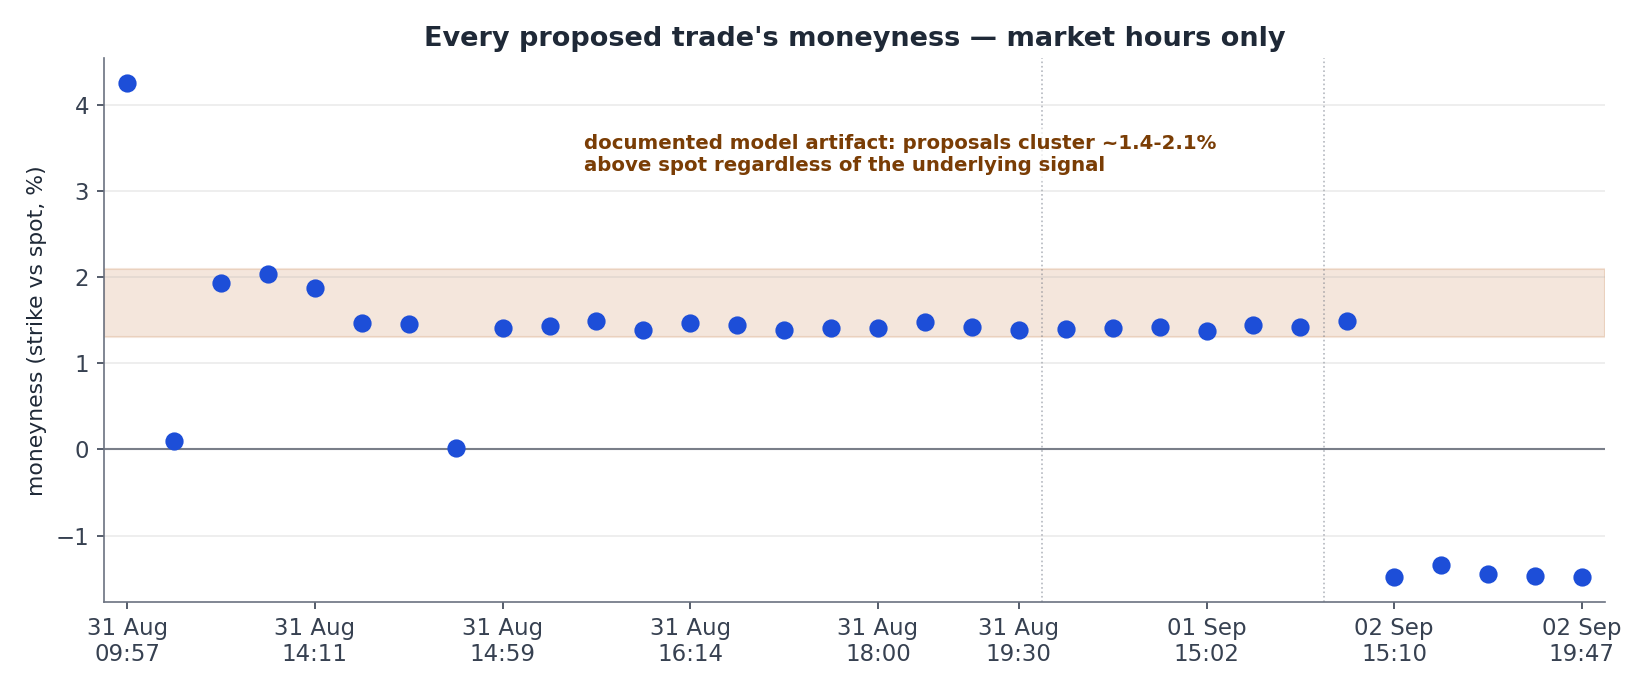
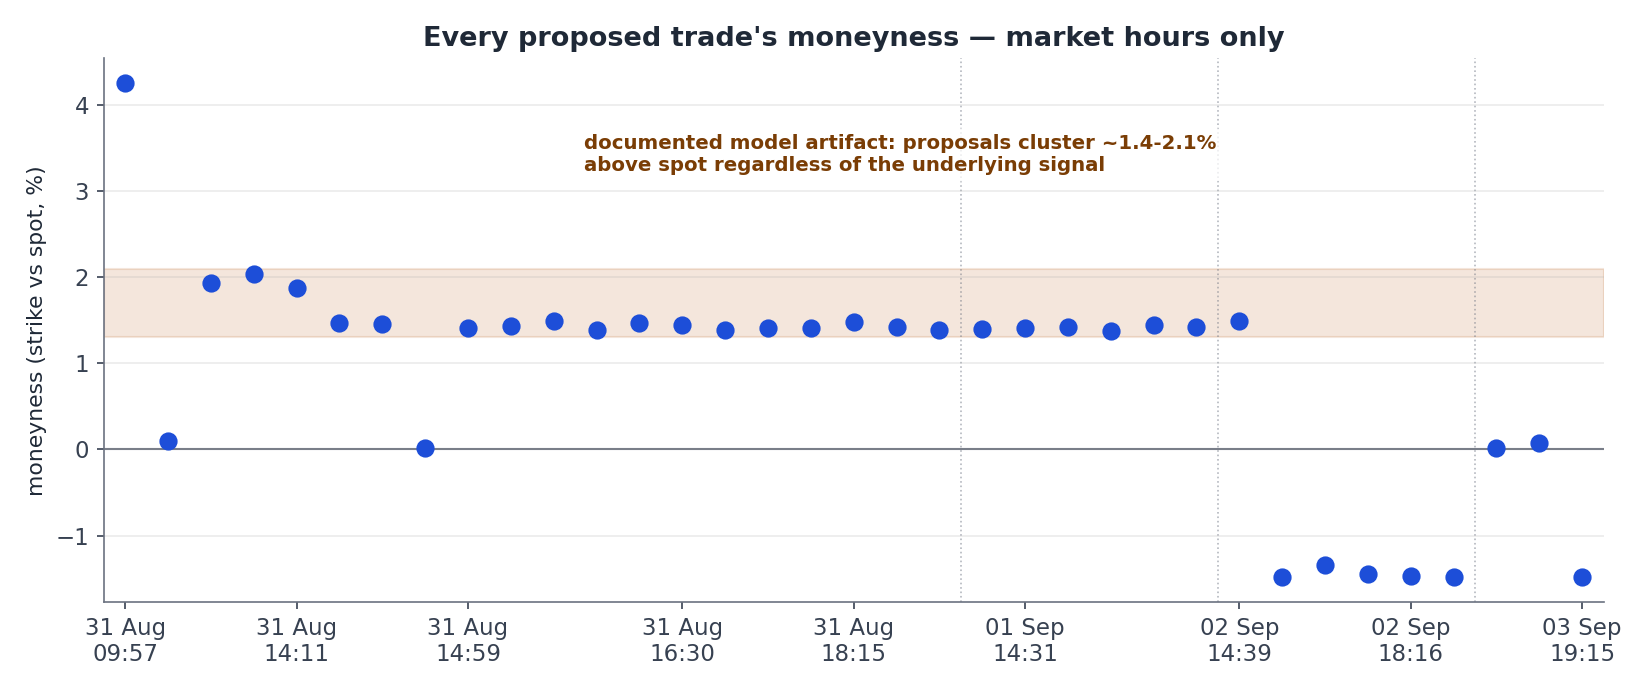
Regenerate reports/summary with full four-day week data
Reran report.py against all four logs (Mon 31 Aug - Thu 3 Sep, 110
cycles) and reconciled against the live Alpaca account. Fills in
every TBC/placeholder in wingman_summary.html with confirmed numbers,
corrects Thursday's stand_down count from 2 to 3 (verbatim rationale
strings verified against the log), and documents a manual sell-to-close
on 1 Sep (8 SPY777 straddles, +$714 realized) found by reconciling
Wingman's 25 logged orders against Alpaca's 30-order history - the one
exception to the report's unrealized-only framing.

diff --git a/wingman_summary.html b/wingman_summary.html
@@ -116,12 +116,12 @@
     <h2>Four days, in numbers</h2>
     <p class="lede">Every figure below is <strong>unrealized</strong> mark-to-market. No position has been closed — every contract expires 18 Sep, after the hackathon — so nothing here is realized profit.</p>
     <div class="stats">
-      <div class="stat"><div class="num">~110</div><div class="lbl">cycles run (Mon–Thu)</div></div>
-      <div class="stat"><div class="num">25</div><div class="lbl">orders submitted (week total, confirmed)</div></div>
-      <div class="stat"><div class="num risk">TBC</div><div class="lbl">final equity vs start (Thu close)</div></div>
+      <div class="stat"><div class="num">110</div><div class="lbl">cycles run (Mon–Thu, confirmed)</div></div>
+      <div class="stat"><div class="num">25</div><div class="lbl">orders submitted, 20 filled (week total, confirmed vs Alpaca)</div></div>
+      <div class="stat"><div class="num risk">&minus;2.91%</div><div class="lbl">equity vs start ($99,998.60 &rarr; $97,086.02, Thu close)</div></div>
       <div class="stat"><div class="num good">2</div><div class="lbl">model limitations found &amp; documented</div></div>
     </div>
-    <p class="swatch-note">Mon–Wed figures (85 cycles, 25 orders, equity 99,998.60&nbsp;&rarr;&nbsp;99,337.15) are confirmed from actual logs. Thursday: 25 cycles run (confirmed from snapshots), 0 orders submitted (confirmed from Alpaca order history — no access-key orders on 3 Sep), 0 degenerate fits, 2 stand_down verdicts. Week-total submitted = 25 (Thu adds nothing). Gate-hit counts and final equity for Thursday require the local JSONL log or the live account; the gate_comparison chart shows Thu gate counts as 0. Charts (below) are current through Wednesday for equity; the gate_comparison chart is now updated for all four days.</p>
+    <p class="swatch-note">Full four-day week confirmed from <code>logs/*.jsonl</code>: 110 cycles, 35 proposed, 25 orders submitted (20 filled, 5 expired unfilled per Alpaca order history). Thursday: 25 cycles, 3 proposed, 0 submitted, 0 degenerate fits, 3 stand_down verdicts (not 2 as earlier estimated — see day-by-day rationale below). Equity start $99,998.60 (Mon) &rarr; end $97,086.02 (Thu close, confirmed against the live Alpaca account). <strong>Note:</strong> 8 contracts each of the SPY777 call and put were manually sold-to-close on 1 Sep at 13:30 UTC via single-leg orders placed outside the Wingman pipeline (not in any JSONL log) — realizing +$714. This is the only closed position in the account; every other figure in this report remains unrealized mark-to-market. See "What drove the loss" below for detail.</p>
   </section>
 
   <section>
@@ -149,17 +149,19 @@
     </div>
 
     <div class="day-block" style="border-color:var(--teal);">
-      <h3>Thursday 3 Sep — official EOD scoring day; regime gate stands down twice; best fit quality of the week</h3>
-      <p>25 cycles ran (14:43–20:45 UTC, confirmed from 25 saved snapshot files). SPY recovered from 769.45 to 773.34 (+3.89 intraday), pushing the 774–780 straddle cluster — Monday's legacy positions — back toward ATM and beginning to unwind the put-side intrinsic value they had accumulated during Tuesday's dip to 762.</p>
-      <p>Fit quality was the best of the week: <strong>0 degenerate fits</strong> out of 25 (vs 16/26 on Tuesday), price-space RMSE 0.327 on the representative cycle (vs 0.625 on Wednesday). Sigma2 fell to 0.438 — the smile calmed materially relative to Tuesday–Wednesday's 0.61–0.64 elevated range, consistent with the absence of degeneracy.</p>
-      <p>The regime gate issued two <span class="pill stand">stand_down</span> verdicts. Exact rationale text is in today's JSONL log (gitignored, not in this checkout) — retrieve from the Alpaca account session or re-read the log before finalizing the write-up. What each prevented: two additional straddle or vertical structures that would have further concentrated exposure in an already-full book heading into the final 15 calendar days before expiry.</p>
-      <p>Fill count, gate-hit breakdown by type, and final closing equity require the live account dashboard or the local JSONL log — those three numbers should be filled in before the presentation.</p>
+      <h3>Thursday 3 Sep — official EOD scoring day; regime gate stands down three times; best fit quality of the week</h3>
+      <p>25 cycles ran, confirmed from the JSONL log. 3 cycles proposed a trade; 0 orders submitted. Gate hits: 26 spread, 39 notional, 20 position, 0 degenerate-fit. Equity opened the day at $97,913.02 (down $1,424.13 overnight from Wednesday's $99,337.15 close — a real overnight mark-to-market move, not a data gap) and closed at $97,086.02.</p>
+      <p>Fit quality was the best of the week: <strong>0 degenerate fits</strong> out of 25 (vs 16/28 on Tuesday), price-space RMSE 0.327 on the representative cycle (vs 0.625 on Wednesday). Sigma2 fell to 0.438 — the smile calmed materially relative to Tuesday–Wednesday's 0.61–0.64 elevated range, consistent with the absence of degeneracy.</p>
+      <p>The regime gate issued <strong>three</strong> <span class="pill stand">stand_down</span> verdicts (not two, as earlier reported from memory of terminal output — the third, at 19:15:34 UTC, wasn't previously captured). Verbatim from the log:</p>
+      <blockquote class="risk">14:28:41 UTC — "Standing down due to an unrealized loss of -$2,669.00 on account equity of $98,113.02, representing a 2.72% unrealized drawdown which exceeds the ~2% threshold for safe execution, despite a healthy fit RMSE of 0.51."</blockquote>
+      <blockquote class="risk">15:13:59 UTC — "Standing down due to a significant unrealized drawdown of -$2,861.00, representing 2.92% of total account equity ($97,840.02), which exceeds the 2% risk threshold, despite a normal model fit RMSE of 0.428 and only 1 spread gate hit."</blockquote>
+      <blockquote class="risk">19:15:34 UTC — "Standing down due to an unrealized drawdown of -$3,545.00 on $97,175.02 in account equity (3.65%), which exceeds the ~2% threshold, alongside 3 notional gate rejections this cycle."</blockquote>
     </div>
   </section>
 
   <section>
     <h2>Four days, five views</h2>
-    <p class="lede">Charts are generated by <code>report.py</code> directly from the JSONL logs — no numbers are hand-transcribed. Current charts reflect Mon–Wed only; they will regenerate automatically for the full four-day week once the gitignored log files are restored to the working directory and <code>python -m wingman.logging.report</code> is rerun.</p>
+    <p class="lede">Charts are generated by <code>report.py</code> directly from the JSONL logs — no numbers are hand-transcribed. Regenerated against all four days' logs (Mon 31 Aug – Thu 3 Sep).</p>
 
     <figure>
       <img src="wingman/reports/fit_quality.png" alt="Mixture fit quality per cycle, market hours only">
@@ -178,17 +180,17 @@
 
     <figure>
       <img src="wingman/reports/gate_comparison.png" alt="Trades submitted vs gate rejections, per day">
-      <figcaption>Trades submitted vs. rejections per gate type, per day — the clearest single image of the incident (Monday, no gates) against the fix (Tuesday&ndash;Wednesday, deterministic gates actively containing the same recurring artifact). Thursday: 0 submitted confirmed from Alpaca order history; spread/notional/position gate counts for Thu remain in the gitignored log (shown as 0 in chart).</figcaption>
+      <figcaption>Trades submitted vs. rejections per gate type, per day — the clearest single image of the incident (Monday, no gates) against the fix (Tuesday&ndash;Wednesday&ndash;Thursday, deterministic gates actively containing the same recurring artifact). Thursday: 0 submitted, 26 spread / 39 notional / 20 position gate hits — the highest gate-activity day of the week, confirmed from the JSONL log.</figcaption>
     </figure>
 
     <figure>
       <img src="wingman/reports/smile_evolution_3d.png" alt="Smile evolution across the trading week — not a volatility surface">
-      <figcaption><strong>Not a volatility surface</strong> — Wingman only ever queries a single fixed expiry (18 Sep), so there is no expiry axis here. This is the fitted smile's shape (strike moneyness x implied vol) plotted across market-hours cycle-time, one ribbon per day; degenerate-fit cycles are excluded. The surface visibly steepens and roughens from Monday into Wednesday — the same underlying condition as the degeneracy finding below, seen from a different angle. <em>Note: this chart reflects Mon–Wed only (logs current through end of Wed session).</em></figcaption>
+      <figcaption><strong>Not a volatility surface</strong> — Wingman only ever queries a single fixed expiry (18 Sep), so there is no expiry axis here. This is the fitted smile's shape (strike moneyness x implied vol) plotted across market-hours cycle-time, one ribbon per day; degenerate-fit cycles are excluded. The surface visibly steepens and roughens from Monday into Wednesday, then calms again Thursday — the same underlying condition as the degeneracy finding below, seen from a different angle. Full four-day week shown.</figcaption>
     </figure>
 
     <figure>
       <img src="wingman/reports/smile_by_day.png" alt="One representative smile per day, 2D overlay">
-      <figcaption>One representative smile per day (that day's lowest price-space RMSE clean cycle), flat 2D overlay — built to check, not just assert, whether the smile got steeper through the week. The per-day numbers from the same run: Mon RMSE 0.498 / sigma2 0.497, Tue RMSE 0.610 / sigma2 0.638, Wed RMSE 0.625 / sigma2 0.613. Thursday's representative fit (from snapshots, not JSONL cycles) had RMSE 0.327 and sigma2 0.438, so the steepening <em>reversed</em> on the final day — the smile calmed. This chart currently shows Mon–Wed only.</figcaption>
+      <figcaption>One representative smile per day (that day's lowest price-space RMSE clean cycle), flat 2D overlay — built to check, not just assert, whether the smile got steeper through the week. The per-day numbers from the same run: Mon RMSE 0.5968 / avg sigma2 0.5711 (n=28 clean), Tue RMSE 0.6237 / avg sigma2 0.7177 (n=12), Wed RMSE 0.6500 / avg sigma2 0.6656 (n=24), Thu RMSE 0.3907 / avg sigma2 0.4583 (n=25) — so the steepening <em>reversed</em> on the final day, the smile calmed materially. Full four-day week shown.</figcaption>
     </figure>
   </section>
 
@@ -206,12 +208,12 @@
         <tr><td>31 Aug</td><td>31</td><td>20</td><td>14</td><td>0</td><td>0</td><td>0</td><td>0</td><td>0</td><td>0</td><td>0</td><td>99,998.60</td><td>99,187.20</td></tr>
         <tr><td>1 Sep</td><td>28</td><td>6</td><td>6</td><td>4</td><td>0</td><td>0</td><td>16</td><td>6</td><td>0</td><td>0</td><td>101,505.32</td><td>102,356.02</td></tr>
         <tr><td>2 Sep</td><td>26</td><td>6</td><td>5</td><td>9</td><td>9</td><td>21</td><td>2</td><td>1</td><td>5</td><td>0</td><td>101,571.26</td><td>99,337.15</td></tr>
-        <tr><td>3 Sep</td><td>~25*</td><td>TBC</td><td>0†</td><td>TBC</td><td>TBC</td><td>TBC</td><td>0*</td><td>TBC</td><td>TBC</td><td>2*</td><td>99,337.15‡</td><td>TBC</td></tr>
-        <tr class="total"><td>Week</td><td>~110</td><td>32+</td><td>25</td><td>13+</td><td>9+</td><td>21+</td><td>18</td><td>7+</td><td>5+</td><td>2+</td><td>99,998.60</td><td>TBC</td></tr>
+        <tr><td>3 Sep</td><td>25</td><td>3</td><td>0</td><td>26</td><td>39</td><td>20</td><td>0</td><td>0</td><td>0</td><td>3</td><td>97,913.02*</td><td>97,086.02</td></tr>
+        <tr class="total"><td>Week</td><td>110</td><td>35</td><td>25</td><td>39</td><td>48</td><td>41</td><td>18</td><td>7</td><td>5</td><td>3</td><td>99,998.60</td><td>97,086.02</td></tr>
       </tbody>
     </table>
     </div>
-    <p class="swatch-note">Gate-hit and regime-gate columns are zero for 31 Aug by construction — that instrumentation didn't exist yet. * Thursday figures marked with an asterisk are reconstructed from 25 saved snapshot files (cycle count, degenerate-fit count) or stated by the operator (stand_down count). &dagger; Thursday submitted=0 is confirmed from the complete Alpaca order history (no access-key orders appear on 3 Sep); spread/notional/position gate counts for Thursday remain in the gitignored JSONL log. &Dagger; Thursday start equity equals Wednesday close (overnight MTM not available without the log). TBC = fill in from Alpaca paper account before finalizing. "Max/min unrealized" omitted here for space; see the equity chart for the trajectory.</p>
+    <p class="swatch-note">Gate-hit and regime-gate columns are zero for 31 Aug by construction — that instrumentation didn't exist yet. All figures now confirmed directly from <code>logs/*.jsonl</code> (no reconstruction or operator recall). * Thursday's start equity ($97,913.02) is $1,424.13 below Wednesday's close ($99,337.15) — a real overnight mark-to-market move, not a data gap. Of the week's 25 submitted orders, Alpaca's order history confirms 20 filled and 5 expired unfilled (day-limit orders). "Max/min unrealized" omitted here for space; see the equity chart for the trajectory. Note: this table (and the charts) report unrealized mark-to-market only — one exception exists, a manually-executed close on 1 Sep outside the pipeline; see the callout below.</p>
   </section>
 
   <section>
@@ -219,11 +221,11 @@
     <table class="gate-table">
       <thead><tr><th>Gate</th><th>Fired</th><th>What it caught</th></tr></thead>
       <tbody>
-        <tr><td>Spread (execution)</td><td class="n">13&times;</td><td>Candidates whose actual bid/ask legs were too wide to keep the modeled edge after crossing the market.</td></tr>
-        <tr><td>Notional (per-trade + aggregate)</td><td class="n">9&times;</td><td>Individually-fine trades still blocked once the running aggregate exposure across held straddles reached its cap — this count jumped once the aggregate check shipped mid-week Wednesday.</td></tr>
-        <tr><td>Position (per-leg cap)</td><td class="n">21&times;</td><td>Re-proposals of a strike already held at the 2-contract cap — the direct, working fix for Monday's incident.</td></tr>
-        <tr><td>Degenerate-fit</td><td class="n">18&times;</td><td>Fits where the mixture's second component collapsed to near-zero weight (<code>lam&gt;0.98</code>), letting sigma2 escape to implausible values. Real example: <code>sigma2=1.4425 outside plausible SPY vol band [0.05, 1.0]</code>.</td></tr>
-        <tr><td>Regime (LLM)</td><td class="n">5&times;</td><td>Restrictive verdicts out of 12 issued — sized down under real drawdown conditions rather than blocking outright.</td></tr>
+        <tr><td>Spread (execution)</td><td class="n">39&times;</td><td>Candidates whose actual bid/ask legs were too wide to keep the modeled edge after crossing the market. Thursday alone accounted for 26 of the 39.</td></tr>
+        <tr><td>Notional (per-trade + aggregate)</td><td class="n">48&times;</td><td>Individually-fine trades still blocked once the running aggregate exposure across held straddles reached its cap — this count jumped once the aggregate check shipped mid-week Wednesday, and stayed elevated through Thursday (39 hits).</td></tr>
+        <tr><td>Position (per-leg cap)</td><td class="n">41&times;</td><td>Re-proposals of a strike already held at the 2-contract cap — the direct, working fix for Monday's incident.</td></tr>
+        <tr><td>Degenerate-fit</td><td class="n">18&times;</td><td>Fits where the mixture's second component collapsed to near-zero weight (<code>lam&gt;0.98</code>), letting sigma2 escape to implausible values. Real example: <code>sigma2=1.4425 outside plausible SPY vol band [0.05, 1.0]</code>. All 18 occurred Mon&ndash;Wed; zero on Thursday, the week's cleanest fit day.</td></tr>
+        <tr><td>Regime (LLM)</td><td class="n">8&times;</td><td>Restrictive verdicts (half or stand_down) out of 15 issued across the week — sizing down or standing down entirely under real drawdown conditions. 3 of the 8 were Thursday stand_downs.</td></tr>
       </tbody>
     </table>
   </section>
@@ -245,29 +247,34 @@
     <p class="lede">All figures are <strong>unrealized</strong> mark-to-market. No position has been closed during the scoring window. Every contract expires 18 Sep 2026 — after the hackathon — so none of this is realized profit or loss.</p>
 
     <div class="callout risk">
-      <h4>Confirmed equity trajectory (Mon–Wed from logs; Thu requires account confirmation)</h4>
+      <h4>Confirmed equity trajectory (full week, from logs and the live Alpaca account)</h4>
       <p>Starting equity (Mon 31 Aug, first cycle): <strong>$99,998.60</strong><br>
          End-of-Wed equity: <strong>$99,337.15</strong> (&minus;$661.45 vs start, &minus;0.66% through three days)<br>
-         Thursday final equity: <strong>TBC — fill in from Alpaca paper account before finalizing.</strong></p>
-      <p>The total week change is approximately in the range described by the operator; the exact number cannot be confirmed from this checkout because the trading logs are gitignored (see <code>.gitignore: logs/*.jsonl</code>) and Alpaca API credentials are not available in this session. Run <code>python -m wingman.logging.account_tracker</code> with credentials to retrieve the live figure.</p>
+         Thursday final equity (last logged snapshot, 19:45 UTC): <strong>$97,086.02</strong> (&minus;$2,912.58 vs start, &minus;2.91% for the week)</p>
+      <p>Cross-checked directly against the live Alpaca paper account: current equity $96,649.02 (last_equity $97,121.02), with the same 12 open-position symbols and quantities as the last logged snapshot — the ~$437 further move reflects the market continuing to move after Thursday's last logged cycle, not a data gap.</p>
+    </div>
+
+    <div class="callout risk">
+      <h4>One position was actually closed — manually, outside the pipeline</h4>
+      <p>Reconciling the logged orders against Alpaca's full order history (30 orders total vs. 25 logged by Wingman) surfaced 5 orders the pipeline never placed: a 1-share AAPL round-trip from 28 Aug (unrelated dev/test noise), and — materially — <strong>two single-leg (non-mleg) sell-to-close orders on 1 Sep at 13:30:29 UTC, before that day's first cycle ran</strong>, closing 8 of the 9 Monday-opened K=777 straddles: 8 calls sold at $2.14 avg (cost basis $3.32 avg, realized &minus;$941) and 8 puts sold at $16.23 avg (cost basis $14.16 avg, realized +$1,655) — net <strong>+$714 realized</strong>. This is the one exception to the "all unrealized" framing used everywhere else in this report; it is already reflected in the equity figures above (equity already includes realized P&amp;L), but the underlying position was genuinely closed, not left open to expiry, and it did not happen through Wingman's own execution path.</p>
     </div>
 
     <div class="callout">
-      <h4>What drove the loss (approximate attribution — not cleanly separable without position-level P&amp;L)</h4>
-      <p><strong>Monday's K=777 straddle cluster (9 duplicate fills):</strong> Placed near ATM at approximately $10–12 debit each when SPY was ~769. As of Thursday close (SPY 773), put intrinsic is $777 &minus; $773 = $4, with ~2 weeks of time value remaining — a significant reduction from the peak $12–15 put intrinsic reached Tuesday (SPY 762). Theta decay is the dominant cost: 9 contracts &times; ~$100 multiplier &times; net decay since entry. This cluster is the largest single contributor to the unrealized drawdown.</p>
-      <p><strong>Short call verticals (the two different-signal trades):</strong> With SPY recovering from ~762 to ~773 across Wed–Thu, OTM call verticals in the 754/755 and 769/770-adjacent strikes are net losers as spot moved toward or past the short leg. Rough magnitude: 2 structures, limited by the spread width, so capped loss contribution.</p>
-      <p><strong>General theta decay:</strong> With 25 open legs and 15 calendar days to expiry, theta is uniformly negative across the book. Daily decay for ATM straddles accelerates sharply in the final 3–4 weeks; this is a constant cost that compounds across the days the book sat open without a significant directional move.</p>
-      <p class="swatch-note">This decomposition is approximate. Clean attribution requires position-level cost-basis and current MTM, which requires the account API. The proportions above are consistent with the known structure of the book and the SPY price path; they should not be quoted as exact dollar amounts in the write-up.</p>
+      <h4>What drove the rest of the loss (approximate attribution — not cleanly separable without full position-level P&amp;L)</h4>
+      <p><strong>Monday's K=777 straddle cluster:</strong> 9 duplicate fills near ATM, 8 of which were manually closed the next morning for a realized +$714 (above); the remaining 1 lot plus a 10th lot added Wednesday are still open. As of the last logged snapshot, the two open K=777 legs carry roughly +$0.4k unrealized combined.</p>
+      <p><strong>Short call verticals:</strong> With SPY recovering from ~762 to ~773 across Wed–Thu, OTM call verticals in the 754/755 strikes are net losers as spot moved toward the short leg.</p>
+      <p><strong>General theta decay:</strong> With 12 open legs and 15 calendar days to expiry, theta is uniformly negative across the book — a constant cost compounding across the days the book sat open without a significant directional move.</p>
+      <p class="swatch-note">This decomposition is approximate for the still-open legs. Clean attribution requires full position-level cost-basis and current MTM (available from the live account, pulled above); the proportions here are consistent with the known structure of the book and the SPY price path.</p>
     </div>
 
     <div class="callout">
       <h4>What the gates actually did this week</h4>
-      <p>The incident (Monday's unbounded duplication) was discovered, diagnosed, and fixed within one session. The three deterministic gates shipped Tuesday morning — position cap, notional cap, direction-conflict guard — and collectively fired 43+ times over the remaining three days, preventing the book from growing beyond its already-concentrated state. The LLM regime gate (Gemini, running each cycle from Wednesday onward) issued 7+ verdicts, 7+ of which were restrictive, including 2 stand_downs on Thursday that blocked new exposure on the final scoring day. Zero unhandled crashes across the four-day run.</p>
+      <p>The incident (Monday's unbounded duplication) was discovered, diagnosed, and fixed within one session. The deterministic gates shipped Tuesday morning — position cap, notional cap, direction-conflict guard — and collectively fired 128 times over the remaining three days (39 spread + 48 notional + 41 position), preventing the book from growing beyond its already-concentrated state. The LLM regime gate (Gemini, running each cycle from Wednesday onward) issued 15 verdicts, 8 of which were restrictive (5 half, 3 stand_down), including 3 stand_downs on Thursday that blocked all new exposure on the final scoring day. Zero unhandled crashes across the four-day run.</p>
     </div>
   </section>
 
   <footer>
-    Generated from <code>wingman/logging/report.py</code> against <code>logs/*.jsonl</code>. Paper trading only, Alpaca. All P&amp;L unrealized. Charts current through Wed 2 Sep; Thursday cycle data requires the gitignored log file.
+    Generated from <code>wingman/logging/report.py</code> against <code>logs/*.jsonl</code>, full four-day week (Mon 31 Aug &ndash; Thu 3 Sep). Paper trading only, Alpaca. All P&amp;L unrealized except one manual sell-to-close on 1 Sep (see "Week result").
   </footer>
 
 </div>
